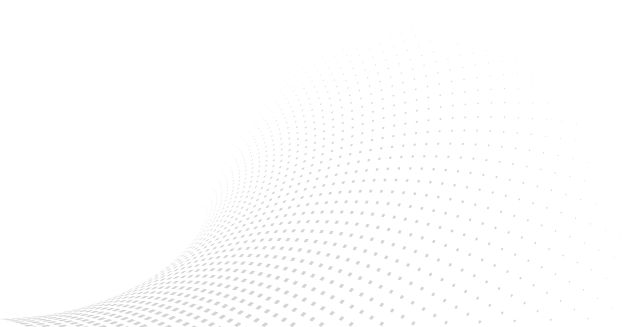
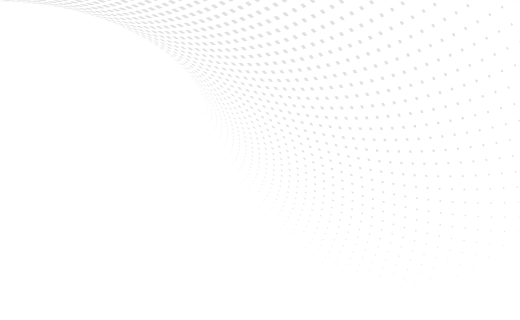
comit

diff --git a/app/sass/components/_layout.scss b/app/sass/components/_layout.scss
@@ -26,7 +26,7 @@ main {
   min-height: 100vh;
   transition: all 0.5s;
   padding-bottom: 80px;
-  background: $light-grey no-repeat bottom right url('../images/pattern.png');
+  background: $light-grey no-repeat top right url('../images/pattern.png');
 }
 
 // Page Title with Icon
